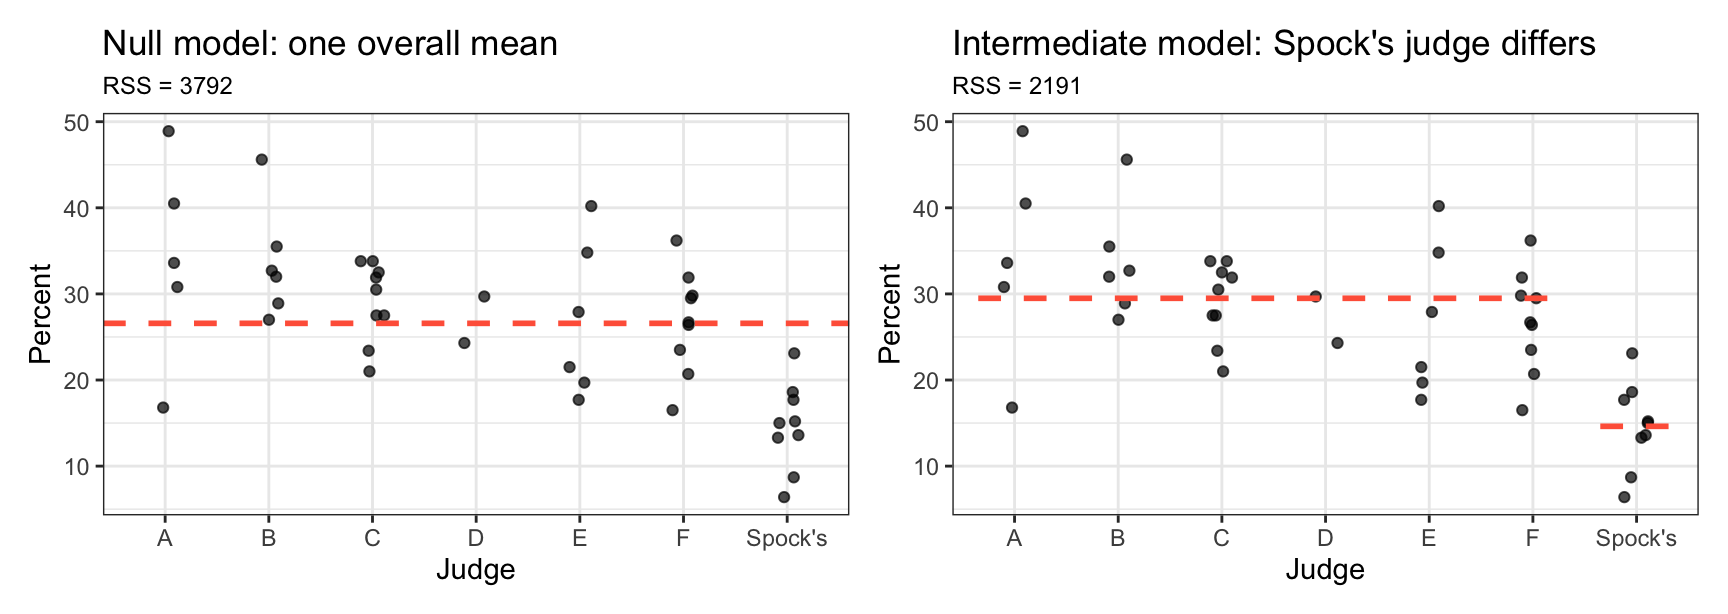
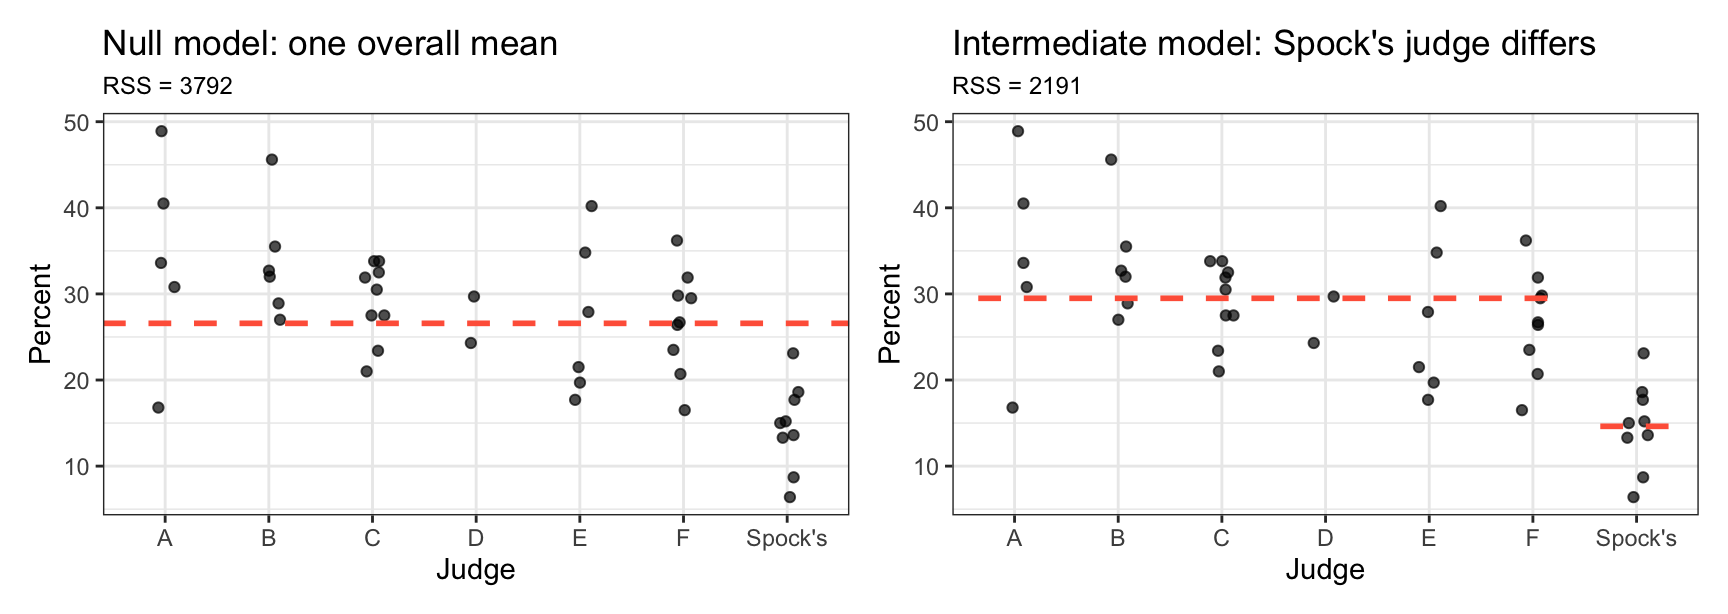
update ch 5

diff --git a/docs/07_ch5/07_ch5.html b/docs/07_ch5/07_ch5.html
@@ -339,7 +339,11 @@ window.Quarto = {
 <p>The response is <strong>lifetime in months</strong>. We are interested in:</p>
 <ol type="1">
 <li>Are <em>any</em> of the diets different from each other in terms of longevity?</li>
-<li>Which specific diets differ, and by how much?</li>
+<li>Do controls (N/N85) live longer than those on nonpurified diets (NP)?</li>
+<li>Does restricting diets from 85 kcal/wk (N/N85) to 50 kcal/wk (N/R50) increase lifetime?</li>
+<li>Does Further restriction from 50 kcal/wk (N/R50) to 40 kcal/wk (N/R40) result in even more increase lifetime?</li>
+<li>Does lowering protein (N/R50 lopro) reduce lifetime compare to those already on a restricted diet (N/R50)?</li>
+<li>Does restriction both before and after weaning (R/R50) increase lifetime relative to just after weaning (N/R50)?</li>
 </ol>
 <ul>
 <li><p>Pairwise comparisons of interest:</p>
@@ -892,7 +896,10 @@ window.Quarto = {
 <p>The response is <code>Percent</code> — the percentage of women on each venire. We are interested in:</p>
 <ol type="1">
 <li>Is Spock’s judge’s mean percent-women lower than the other judges?</li>
-<li>Are the other judges’ means all the same?</li>
+<li>Are the other judges’ means all the same?
+<ul>
+<li>Important to add context that Spock’s judge might be illegally removing women from the venire.</li>
+</ul></li>
 </ol>
 <div class="cell" data-layout-align="center">
 <div class="code-copy-outer-scaffold"><div class="sourceCode cell-code" id="cb5"><pre class="sourceCode r code-with-copy"><code class="sourceCode r"><span id="cb5-1"><a href="#cb5-1" aria-hidden="true" tabindex="-1"></a><span class="fu">ggplot</span>(case0502, <span class="fu">aes</span>(<span class="at">x =</span> Judge, <span class="at">y =</span> Percent)) <span class="sc">+</span></span>
@@ -902,21 +909,6 @@ window.Quarto = {
 <div class="quarto-figure quarto-figure-center">
 <figure class="figure">
 <p><img src="07_ch5_files/figure-html/spock-eda-1.png" class="img-fluid quarto-figure quarto-figure-center figure-img" width="672"></p>
-</figure>
-</div>
-</div>
-</div>
-<div class="cell" data-layout-align="center">
-<div class="code-copy-outer-scaffold"><div class="sourceCode cell-code" id="cb6"><pre class="sourceCode r code-with-copy"><code class="sourceCode r"><span id="cb6-1"><a href="#cb6-1" aria-hidden="true" tabindex="-1"></a><span class="fu">ggplot</span>(case0502, <span class="fu">aes</span>(<span class="at">x =</span> Judge, <span class="at">y =</span> Percent)) <span class="sc">+</span></span>
-<span id="cb6-2"><a href="#cb6-2" aria-hidden="true" tabindex="-1"></a>  <span class="fu">geom_jitter</span>(<span class="at">width =</span> <span class="fl">0.15</span>, <span class="at">height =</span> <span class="dv">0</span>) <span class="sc">+</span></span>
-<span id="cb6-3"><a href="#cb6-3" aria-hidden="true" tabindex="-1"></a>  <span class="fu">stat_summary</span>(<span class="at">fun =</span> mean, <span class="at">geom =</span> <span class="st">"crossbar"</span>,</span>
-<span id="cb6-4"><a href="#cb6-4" aria-hidden="true" tabindex="-1"></a>               <span class="at">color =</span> <span class="st">"tomato"</span>, <span class="at">linewidth =</span> <span class="fl">0.5</span>, <span class="at">width =</span> <span class="fl">0.55</span>) <span class="sc">+</span></span>
-<span id="cb6-5"><a href="#cb6-5" aria-hidden="true" tabindex="-1"></a>  <span class="fu">labs</span>(<span class="at">y =</span> <span class="st">"Percent women on venire"</span>,</span>
-<span id="cb6-6"><a href="#cb6-6" aria-hidden="true" tabindex="-1"></a>       <span class="at">caption =</span> <span class="st">"Red bars = group sample means"</span>)</span></code></pre></div><button title="Copy to Clipboard" class="code-copy-button"><i class="bi"></i></button></div>
-<div class="cell-output-display">
-<div class="quarto-figure quarto-figure-center">
-<figure class="figure">
-<p><img src="07_ch5_files/figure-html/spock-dotplot-1.png" class="img-fluid quarto-figure quarto-figure-center figure-img" width="672"></p>
 </figure>
 </div>
 </div>
@@ -1226,21 +1218,21 @@ n = \sum_{i=1}^{I}n_i
 <h2 class="anchored" data-anchor-id="p-value-for-the-spock-omnibus-test"><span class="math inline">\(p\)</span>-Value for the Spock Omnibus Test</h2>
 <p>The Spock data has <span class="math inline">\(I = 7\)</span> judges and <span class="math inline">\(n = 46\)</span> venires, so <span class="math inline">\(df_{extra} = 6\)</span> and <span class="math inline">\(df_{full} = 39\)</span>.</p>
 <div class="cell" data-layout-align="center">
-<div class="code-copy-outer-scaffold"><div class="sourceCode cell-code" id="cb7"><pre class="sourceCode r code-with-copy"><code class="sourceCode r"><span id="cb7-1"><a href="#cb7-1" aria-hidden="true" tabindex="-1"></a>n     <span class="ot">&lt;-</span> <span class="fu">nrow</span>(case0502)</span>
-<span id="cb7-2"><a href="#cb7-2" aria-hidden="true" tabindex="-1"></a>I     <span class="ot">&lt;-</span> <span class="fu">n_distinct</span>(case0502<span class="sc">$</span>Judge)</span>
-<span id="cb7-3"><a href="#cb7-3" aria-hidden="true" tabindex="-1"></a>df_extra <span class="ot">&lt;-</span> I <span class="sc">-</span> <span class="dv">1</span>          <span class="co"># 6</span></span>
-<span id="cb7-4"><a href="#cb7-4" aria-hidden="true" tabindex="-1"></a>df_full  <span class="ot">&lt;-</span> n <span class="sc">-</span> I          <span class="co"># 39</span></span>
-<span id="cb7-5"><a href="#cb7-5" aria-hidden="true" tabindex="-1"></a>ess      <span class="ot">&lt;-</span> rss_null <span class="sc">-</span> rss_full</span>
-<span id="cb7-6"><a href="#cb7-6" aria-hidden="true" tabindex="-1"></a>sp2      <span class="ot">&lt;-</span> rss_full <span class="sc">/</span> df_full</span>
-<span id="cb7-7"><a href="#cb7-7" aria-hidden="true" tabindex="-1"></a>fstat    <span class="ot">&lt;-</span> (ess <span class="sc">/</span> df_extra) <span class="sc">/</span> sp2</span>
-<span id="cb7-8"><a href="#cb7-8" aria-hidden="true" tabindex="-1"></a><span class="fu">c</span>(<span class="at">ESS =</span> ess, <span class="at">RSS_full =</span> rss_full, <span class="at">sp2 =</span> sp2, <span class="at">F =</span> fstat)</span></code></pre></div><button title="Copy to Clipboard" class="code-copy-button"><i class="bi"></i></button></div>
+<div class="code-copy-outer-scaffold"><div class="sourceCode cell-code" id="cb6"><pre class="sourceCode r code-with-copy"><code class="sourceCode r"><span id="cb6-1"><a href="#cb6-1" aria-hidden="true" tabindex="-1"></a>n     <span class="ot">&lt;-</span> <span class="fu">nrow</span>(case0502)</span>
+<span id="cb6-2"><a href="#cb6-2" aria-hidden="true" tabindex="-1"></a>I     <span class="ot">&lt;-</span> <span class="fu">n_distinct</span>(case0502<span class="sc">$</span>Judge)</span>
+<span id="cb6-3"><a href="#cb6-3" aria-hidden="true" tabindex="-1"></a>df_extra <span class="ot">&lt;-</span> I <span class="sc">-</span> <span class="dv">1</span>          <span class="co"># 6</span></span>
+<span id="cb6-4"><a href="#cb6-4" aria-hidden="true" tabindex="-1"></a>df_full  <span class="ot">&lt;-</span> n <span class="sc">-</span> I          <span class="co"># 39</span></span>
+<span id="cb6-5"><a href="#cb6-5" aria-hidden="true" tabindex="-1"></a>ess      <span class="ot">&lt;-</span> rss_null <span class="sc">-</span> rss_full</span>
+<span id="cb6-6"><a href="#cb6-6" aria-hidden="true" tabindex="-1"></a>sp2      <span class="ot">&lt;-</span> rss_full <span class="sc">/</span> df_full</span>
+<span id="cb6-7"><a href="#cb6-7" aria-hidden="true" tabindex="-1"></a>fstat    <span class="ot">&lt;-</span> (ess <span class="sc">/</span> df_extra) <span class="sc">/</span> sp2</span>
+<span id="cb6-8"><a href="#cb6-8" aria-hidden="true" tabindex="-1"></a><span class="fu">c</span>(<span class="at">ESS =</span> ess, <span class="at">RSS_full =</span> rss_full, <span class="at">sp2 =</span> sp2, <span class="at">F =</span> fstat)</span></code></pre></div><button title="Copy to Clipboard" class="code-copy-button"><i class="bi"></i></button></div>
 <div class="cell-output cell-output-stdout">
 <pre><code>        ESS    RSS_full         sp2           F 
 1927.080865 1864.445222   47.806288    6.718366 </code></pre>
 </div>
 </div>
 <div class="cell" data-layout-align="center">
-<div class="code-copy-outer-scaffold"><div class="sourceCode cell-code" id="cb9"><pre class="sourceCode r code-with-copy"><code class="sourceCode r"><span id="cb9-1"><a href="#cb9-1" aria-hidden="true" tabindex="-1"></a><span class="fu">pf</span>(fstat, <span class="at">df1 =</span> df_extra, <span class="at">df2 =</span> df_full, <span class="at">lower.tail =</span> <span class="cn">FALSE</span>)</span></code></pre></div><button title="Copy to Clipboard" class="code-copy-button"><i class="bi"></i></button></div>
+<div class="code-copy-outer-scaffold"><div class="sourceCode cell-code" id="cb8"><pre class="sourceCode r code-with-copy"><code class="sourceCode r"><span id="cb8-1"><a href="#cb8-1" aria-hidden="true" tabindex="-1"></a><span class="fu">pf</span>(fstat, <span class="at">df1 =</span> df_extra, <span class="at">df2 =</span> df_full, <span class="at">lower.tail =</span> <span class="cn">FALSE</span>)</span></code></pre></div><button title="Copy to Clipboard" class="code-copy-button"><i class="bi"></i></button></div>
 <div class="cell-output cell-output-stdout">
 <pre><code>[1] 6.095823e-05</code></pre>
 </div>
@@ -1470,7 +1462,7 @@ n = \sum_{i=1}^{I}n_i
 <h2 class="anchored" data-anchor-id="checking-the-grouping-variable">Checking the Grouping Variable</h2>
 <p>Before fitting, confirm the grouping variable is a <code>factor</code> or <code>character</code>:</p>
 <div class="cell" data-layout-align="center">
-<div class="code-copy-outer-scaffold"><div class="sourceCode cell-code" id="cb11"><pre class="sourceCode r code-with-copy"><code class="sourceCode r"><span id="cb11-1"><a href="#cb11-1" aria-hidden="true" tabindex="-1"></a><span class="fu">class</span>(case0502<span class="sc">$</span>Judge)</span></code></pre></div><button title="Copy to Clipboard" class="code-copy-button"><i class="bi"></i></button></div>
+<div class="code-copy-outer-scaffold"><div class="sourceCode cell-code" id="cb10"><pre class="sourceCode r code-with-copy"><code class="sourceCode r"><span id="cb10-1"><a href="#cb10-1" aria-hidden="true" tabindex="-1"></a><span class="fu">class</span>(case0502<span class="sc">$</span>Judge)</span></code></pre></div><button title="Copy to Clipboard" class="code-copy-button"><i class="bi"></i></button></div>
 <div class="cell-output cell-output-stdout">
 <pre><code>[1] "factor"</code></pre>
 </div>
@@ -1480,8 +1472,8 @@ n = \sum_{i=1}^{I}n_i
 <section id="omnibus-f-test-with-aov-and-tidy" class="level2">
 <h2 class="anchored" data-anchor-id="omnibus-f-test-with-aov-and-tidy">Omnibus <span class="math inline">\(F\)</span>-Test with <code>aov()</code> and <code>tidy()</code></h2>
 <div class="cell" data-layout-align="center">
-<div class="code-copy-outer-scaffold"><div class="sourceCode cell-code" id="cb13"><pre class="sourceCode r code-with-copy"><code class="sourceCode r"><span id="cb13-1"><a href="#cb13-1" aria-hidden="true" tabindex="-1"></a>aout_full <span class="ot">&lt;-</span> <span class="fu">aov</span>(Percent <span class="sc">~</span> Judge, <span class="at">data =</span> case0502)</span>
-<span id="cb13-2"><a href="#cb13-2" aria-hidden="true" tabindex="-1"></a><span class="fu">tidy</span>(aout_full)</span></code></pre></div><button title="Copy to Clipboard" class="code-copy-button"><i class="bi"></i></button></div>
+<div class="code-copy-outer-scaffold"><div class="sourceCode cell-code" id="cb12"><pre class="sourceCode r code-with-copy"><code class="sourceCode r"><span id="cb12-1"><a href="#cb12-1" aria-hidden="true" tabindex="-1"></a>aout_full <span class="ot">&lt;-</span> <span class="fu">aov</span>(Percent <span class="sc">~</span> Judge, <span class="at">data =</span> case0502)</span>
+<span id="cb12-2"><a href="#cb12-2" aria-hidden="true" tabindex="-1"></a><span class="fu">tidy</span>(aout_full)</span></code></pre></div><button title="Copy to Clipboard" class="code-copy-button"><i class="bi"></i></button></div>
 <div class="cell-output cell-output-stdout">
 <pre><code># A tibble: 2 × 6
   term         df sumsq meansq statistic    p.value
@@ -1533,10 +1525,10 @@ n = \sum_{i=1}^{I}n_i
 <section id="pairwise-comparisons" class="level2">
 <h2 class="anchored" data-anchor-id="pairwise-comparisons">Pairwise Comparisons</h2>
 <div class="cell" data-layout-align="center">
-<div class="code-copy-outer-scaffold"><div class="sourceCode cell-code" id="cb15"><pre class="sourceCode r code-with-copy"><code class="sourceCode r"><span id="cb15-1"><a href="#cb15-1" aria-hidden="true" tabindex="-1"></a>ptout <span class="ot">&lt;-</span> <span class="fu">pairwise.t.test</span>(<span class="at">x =</span> case0502<span class="sc">$</span>Percent,</span>
-<span id="cb15-2"><a href="#cb15-2" aria-hidden="true" tabindex="-1"></a>                         <span class="at">g =</span> case0502<span class="sc">$</span>Judge,</span>
-<span id="cb15-3"><a href="#cb15-3" aria-hidden="true" tabindex="-1"></a>                         <span class="at">p.adjust.method =</span> <span class="st">"none"</span>)</span>
-<span id="cb15-4"><a href="#cb15-4" aria-hidden="true" tabindex="-1"></a>ptout</span></code></pre></div><button title="Copy to Clipboard" class="code-copy-button"><i class="bi"></i></button></div>
+<div class="code-copy-outer-scaffold"><div class="sourceCode cell-code" id="cb14"><pre class="sourceCode r code-with-copy"><code class="sourceCode r"><span id="cb14-1"><a href="#cb14-1" aria-hidden="true" tabindex="-1"></a>ptout <span class="ot">&lt;-</span> <span class="fu">pairwise.t.test</span>(<span class="at">x =</span> case0502<span class="sc">$</span>Percent,</span>
+<span id="cb14-2"><a href="#cb14-2" aria-hidden="true" tabindex="-1"></a>                         <span class="at">g =</span> case0502<span class="sc">$</span>Judge,</span>
+<span id="cb14-3"><a href="#cb14-3" aria-hidden="true" tabindex="-1"></a>                         <span class="at">p.adjust.method =</span> <span class="st">"none"</span>)</span>
+<span id="cb14-4"><a href="#cb14-4" aria-hidden="true" tabindex="-1"></a>ptout</span></code></pre></div><button title="Copy to Clipboard" class="code-copy-button"><i class="bi"></i></button></div>
 <div class="cell-output cell-output-stdout">
 <pre><code>
     Pairwise comparisons using t tests with pooled SD 
@@ -1560,14 +1552,14 @@ P value adjustment method: none </code></pre>
 <h2 class="anchored" data-anchor-id="nested-model-comparisons-with-anova">Nested Model Comparisons with <code>anova()</code></h2>
 <p>To test the intermediate hypothesis (Spock’s differs; others pooled):</p>
 <div class="cell" data-layout-align="center">
-<div class="code-copy-outer-scaffold"><div class="sourceCode cell-code" id="cb17"><pre class="sourceCode r code-with-copy"><code class="sourceCode r"><span id="cb17-1"><a href="#cb17-1" aria-hidden="true" tabindex="-1"></a>case0502 <span class="ot">&lt;-</span> case0502 <span class="sc">|&gt;</span></span>
-<span id="cb17-2"><a href="#cb17-2" aria-hidden="true" tabindex="-1"></a>  <span class="fu">mutate</span>(<span class="at">isSpock =</span> Judge <span class="sc">==</span> <span class="st">"Spock's"</span>)</span>
-<span id="cb17-3"><a href="#cb17-3" aria-hidden="true" tabindex="-1"></a></span>
-<span id="cb17-4"><a href="#cb17-4" aria-hidden="true" tabindex="-1"></a>aout_intermediate <span class="ot">&lt;-</span> <span class="fu">aov</span>(Percent <span class="sc">~</span> isSpock, <span class="at">data =</span> case0502)</span>
-<span id="cb17-5"><a href="#cb17-5" aria-hidden="true" tabindex="-1"></a>aout_null         <span class="ot">&lt;-</span> <span class="fu">aov</span>(Percent <span class="sc">~</span> <span class="dv">1</span>,       <span class="at">data =</span> case0502)</span></code></pre></div><button title="Copy to Clipboard" class="code-copy-button"><i class="bi"></i></button></div>
+<div class="code-copy-outer-scaffold"><div class="sourceCode cell-code" id="cb16"><pre class="sourceCode r code-with-copy"><code class="sourceCode r"><span id="cb16-1"><a href="#cb16-1" aria-hidden="true" tabindex="-1"></a>case0502 <span class="ot">&lt;-</span> case0502 <span class="sc">|&gt;</span></span>
+<span id="cb16-2"><a href="#cb16-2" aria-hidden="true" tabindex="-1"></a>  <span class="fu">mutate</span>(<span class="at">isSpock =</span> Judge <span class="sc">==</span> <span class="st">"Spock's"</span>)</span>
+<span id="cb16-3"><a href="#cb16-3" aria-hidden="true" tabindex="-1"></a></span>
+<span id="cb16-4"><a href="#cb16-4" aria-hidden="true" tabindex="-1"></a>aout_intermediate <span class="ot">&lt;-</span> <span class="fu">aov</span>(Percent <span class="sc">~</span> isSpock, <span class="at">data =</span> case0502)</span>
+<span id="cb16-5"><a href="#cb16-5" aria-hidden="true" tabindex="-1"></a>aout_null         <span class="ot">&lt;-</span> <span class="fu">aov</span>(Percent <span class="sc">~</span> <span class="dv">1</span>,       <span class="at">data =</span> case0502)</span></code></pre></div><button title="Copy to Clipboard" class="code-copy-button"><i class="bi"></i></button></div>
 </div>
 <div class="cell" data-layout-align="center">
-<div class="code-copy-outer-scaffold"><div class="sourceCode cell-code" id="cb18"><pre class="sourceCode r code-with-copy"><code class="sourceCode r"><span id="cb18-1"><a href="#cb18-1" aria-hidden="true" tabindex="-1"></a><span class="fu">anova</span>(aout_intermediate, aout_full)</span></code></pre></div><button title="Copy to Clipboard" class="code-copy-button"><i class="bi"></i></button></div>
+<div class="code-copy-outer-scaffold"><div class="sourceCode cell-code" id="cb17"><pre class="sourceCode r code-with-copy"><code class="sourceCode r"><span id="cb17-1"><a href="#cb17-1" aria-hidden="true" tabindex="-1"></a><span class="fu">anova</span>(aout_intermediate, aout_full)</span></code></pre></div><button title="Copy to Clipboard" class="code-copy-button"><i class="bi"></i></button></div>
 <div class="cell-output cell-output-stdout">
 <pre><code>Analysis of Variance Table
 
@@ -1626,7 +1618,7 @@ Model 2: Percent ~ Judge
 <h2 class="anchored" data-anchor-id="full-sequential-anova-table">Full Sequential ANOVA Table</h2>
 <p>Compare all three models at once:</p>
 <div class="cell" data-layout-align="center">
-<div class="code-copy-outer-scaffold"><div class="sourceCode cell-code" id="cb20"><pre class="sourceCode r code-with-copy"><code class="sourceCode r"><span id="cb20-1"><a href="#cb20-1" aria-hidden="true" tabindex="-1"></a><span class="fu">anova</span>(aout_null, aout_intermediate, aout_full)</span></code></pre></div><button title="Copy to Clipboard" class="code-copy-button"><i class="bi"></i></button></div>
+<div class="code-copy-outer-scaffold"><div class="sourceCode cell-code" id="cb19"><pre class="sourceCode r code-with-copy"><code class="sourceCode r"><span id="cb19-1"><a href="#cb19-1" aria-hidden="true" tabindex="-1"></a><span class="fu">anova</span>(aout_null, aout_intermediate, aout_full)</span></code></pre></div><button title="Copy to Clipboard" class="code-copy-button"><i class="bi"></i></button></div>
 <div class="cell-output cell-output-stdout">
 <pre><code>Analysis of Variance Table
 
@@ -1661,8 +1653,8 @@ Signif. codes:  0 '***' 0.001 '**' 0.01 '*' 0.05 '.' 0.1 ' ' 1</code></pre>
 <h2 class="anchored" data-anchor-id="residual-plots-in-r">Residual Plots in R</h2>
 <p>The quickest way is <code>plot()</code> applied to an <code>aov()</code> object:</p>
 <div class="cell" data-layout-align="center">
-<div class="code-copy-outer-scaffold"><div class="sourceCode cell-code" id="cb22"><pre class="sourceCode r code-with-copy"><code class="sourceCode r"><span id="cb22-1"><a href="#cb22-1" aria-hidden="true" tabindex="-1"></a><span class="fu">par</span>(<span class="at">mfrow =</span> <span class="fu">c</span>(<span class="dv">2</span>, <span class="dv">2</span>))</span>
-<span id="cb22-2"><a href="#cb22-2" aria-hidden="true" tabindex="-1"></a><span class="fu">plot</span>(aout_full)</span></code></pre></div><button title="Copy to Clipboard" class="code-copy-button"><i class="bi"></i></button></div>
+<div class="code-copy-outer-scaffold"><div class="sourceCode cell-code" id="cb21"><pre class="sourceCode r code-with-copy"><code class="sourceCode r"><span id="cb21-1"><a href="#cb21-1" aria-hidden="true" tabindex="-1"></a><span class="fu">par</span>(<span class="at">mfrow =</span> <span class="fu">c</span>(<span class="dv">2</span>, <span class="dv">2</span>))</span>
+<span id="cb21-2"><a href="#cb21-2" aria-hidden="true" tabindex="-1"></a><span class="fu">plot</span>(aout_full)</span></code></pre></div><button title="Copy to Clipboard" class="code-copy-button"><i class="bi"></i></button></div>
 <div class="cell-output-display">
 <div class="quarto-figure quarto-figure-center">
 <figure class="figure">
@@ -1670,7 +1662,7 @@ Signif. codes:  0 '***' 0.001 '**' 0.01 '*' 0.05 '.' 0.1 ' ' 1</code></pre>
 </figure>
 </div>
 </div>
-<div class="code-copy-outer-scaffold"><div class="sourceCode cell-code" id="cb23"><pre class="sourceCode r code-with-copy"><code class="sourceCode r"><span id="cb23-1"><a href="#cb23-1" aria-hidden="true" tabindex="-1"></a><span class="fu">par</span>(<span class="at">mfrow =</span> <span class="fu">c</span>(<span class="dv">1</span>, <span class="dv">1</span>))</span></code></pre></div><button title="Copy to Clipboard" class="code-copy-button"><i class="bi"></i></button></div>
+<div class="code-copy-outer-scaffold"><div class="sourceCode cell-code" id="cb22"><pre class="sourceCode r code-with-copy"><code class="sourceCode r"><span id="cb22-1"><a href="#cb22-1" aria-hidden="true" tabindex="-1"></a><span class="fu">par</span>(<span class="at">mfrow =</span> <span class="fu">c</span>(<span class="dv">1</span>, <span class="dv">1</span>))</span></code></pre></div><button title="Copy to Clipboard" class="code-copy-button"><i class="bi"></i></button></div>
 </div>
 <p>The two most important panels:</p>
 <ul>
@@ -1681,21 +1673,21 @@ Signif. codes:  0 '***' 0.001 '**' 0.01 '*' 0.05 '.' 0.1 ' ' 1</code></pre>
 <section id="manual-ggplot2-residual-plots" class="level2">
 <h2 class="anchored" data-anchor-id="manual-ggplot2-residual-plots">Manual <code>ggplot2</code> Residual Plots</h2>
 <div class="cell" data-layout-align="center">
-<div class="code-copy-outer-scaffold"><div class="sourceCode cell-code" id="cb24"><pre class="sourceCode r code-with-copy"><code class="sourceCode r"><span id="cb24-1"><a href="#cb24-1" aria-hidden="true" tabindex="-1"></a>aug_full <span class="ot">&lt;-</span> <span class="fu">augment</span>(aout_full)</span>
-<span id="cb24-2"><a href="#cb24-2" aria-hidden="true" tabindex="-1"></a></span>
-<span id="cb24-3"><a href="#cb24-3" aria-hidden="true" tabindex="-1"></a>p_rv_fit <span class="ot">&lt;-</span> <span class="fu">ggplot</span>(aug_full, <span class="fu">aes</span>(<span class="at">x =</span> .fitted, <span class="at">y =</span> .resid)) <span class="sc">+</span></span>
-<span id="cb24-4"><a href="#cb24-4" aria-hidden="true" tabindex="-1"></a>  <span class="fu">geom_point</span>() <span class="sc">+</span></span>
-<span id="cb24-5"><a href="#cb24-5" aria-hidden="true" tabindex="-1"></a>  <span class="fu">geom_hline</span>(<span class="at">yintercept =</span> <span class="dv">0</span>, <span class="at">linetype =</span> <span class="st">"dashed"</span>) <span class="sc">+</span></span>
-<span id="cb24-6"><a href="#cb24-6" aria-hidden="true" tabindex="-1"></a>  <span class="fu">labs</span>(<span class="at">x =</span> <span class="st">"Fitted values (group means)"</span>,</span>
-<span id="cb24-7"><a href="#cb24-7" aria-hidden="true" tabindex="-1"></a>       <span class="at">y =</span> <span class="st">"Residuals"</span>,</span>
-<span id="cb24-8"><a href="#cb24-8" aria-hidden="true" tabindex="-1"></a>       <span class="at">title =</span> <span class="st">"Residuals vs. fitted"</span>)</span>
-<span id="cb24-9"><a href="#cb24-9" aria-hidden="true" tabindex="-1"></a></span>
-<span id="cb24-10"><a href="#cb24-10" aria-hidden="true" tabindex="-1"></a>p_rv_grp <span class="ot">&lt;-</span> <span class="fu">ggplot</span>(aug_full, <span class="fu">aes</span>(<span class="at">x =</span> Judge, <span class="at">y =</span> .resid)) <span class="sc">+</span></span>
-<span id="cb24-11"><a href="#cb24-11" aria-hidden="true" tabindex="-1"></a>  <span class="fu">geom_boxplot</span>() <span class="sc">+</span></span>
-<span id="cb24-12"><a href="#cb24-12" aria-hidden="true" tabindex="-1"></a>  <span class="fu">geom_hline</span>(<span class="at">yintercept =</span> <span class="dv">0</span>, <span class="at">linetype =</span> <span class="st">"dashed"</span>) <span class="sc">+</span></span>
-<span id="cb24-13"><a href="#cb24-13" aria-hidden="true" tabindex="-1"></a>  <span class="fu">labs</span>(<span class="at">y =</span> <span class="st">"Residuals"</span>, <span class="at">title =</span> <span class="st">"Residuals by group"</span>)</span>
-<span id="cb24-14"><a href="#cb24-14" aria-hidden="true" tabindex="-1"></a></span>
-<span id="cb24-15"><a href="#cb24-15" aria-hidden="true" tabindex="-1"></a>p_rv_fit <span class="sc">+</span> p_rv_grp</span></code></pre></div><button title="Copy to Clipboard" class="code-copy-button"><i class="bi"></i></button></div>
+<div class="code-copy-outer-scaffold"><div class="sourceCode cell-code" id="cb23"><pre class="sourceCode r code-with-copy"><code class="sourceCode r"><span id="cb23-1"><a href="#cb23-1" aria-hidden="true" tabindex="-1"></a>aug_full <span class="ot">&lt;-</span> <span class="fu">augment</span>(aout_full)</span>
+<span id="cb23-2"><a href="#cb23-2" aria-hidden="true" tabindex="-1"></a></span>
+<span id="cb23-3"><a href="#cb23-3" aria-hidden="true" tabindex="-1"></a>p_rv_fit <span class="ot">&lt;-</span> <span class="fu">ggplot</span>(aug_full, <span class="fu">aes</span>(<span class="at">x =</span> .fitted, <span class="at">y =</span> .resid)) <span class="sc">+</span></span>
+<span id="cb23-4"><a href="#cb23-4" aria-hidden="true" tabindex="-1"></a>  <span class="fu">geom_point</span>() <span class="sc">+</span></span>
+<span id="cb23-5"><a href="#cb23-5" aria-hidden="true" tabindex="-1"></a>  <span class="fu">geom_hline</span>(<span class="at">yintercept =</span> <span class="dv">0</span>, <span class="at">linetype =</span> <span class="st">"dashed"</span>) <span class="sc">+</span></span>
+<span id="cb23-6"><a href="#cb23-6" aria-hidden="true" tabindex="-1"></a>  <span class="fu">labs</span>(<span class="at">x =</span> <span class="st">"Fitted values (group means)"</span>,</span>
+<span id="cb23-7"><a href="#cb23-7" aria-hidden="true" tabindex="-1"></a>       <span class="at">y =</span> <span class="st">"Residuals"</span>,</span>
+<span id="cb23-8"><a href="#cb23-8" aria-hidden="true" tabindex="-1"></a>       <span class="at">title =</span> <span class="st">"Residuals vs. fitted"</span>)</span>
+<span id="cb23-9"><a href="#cb23-9" aria-hidden="true" tabindex="-1"></a></span>
+<span id="cb23-10"><a href="#cb23-10" aria-hidden="true" tabindex="-1"></a>p_rv_grp <span class="ot">&lt;-</span> <span class="fu">ggplot</span>(aug_full, <span class="fu">aes</span>(<span class="at">x =</span> Judge, <span class="at">y =</span> .resid)) <span class="sc">+</span></span>
+<span id="cb23-11"><a href="#cb23-11" aria-hidden="true" tabindex="-1"></a>  <span class="fu">geom_boxplot</span>() <span class="sc">+</span></span>
+<span id="cb23-12"><a href="#cb23-12" aria-hidden="true" tabindex="-1"></a>  <span class="fu">geom_hline</span>(<span class="at">yintercept =</span> <span class="dv">0</span>, <span class="at">linetype =</span> <span class="st">"dashed"</span>) <span class="sc">+</span></span>
+<span id="cb23-13"><a href="#cb23-13" aria-hidden="true" tabindex="-1"></a>  <span class="fu">labs</span>(<span class="at">y =</span> <span class="st">"Residuals"</span>, <span class="at">title =</span> <span class="st">"Residuals by group"</span>)</span>
+<span id="cb23-14"><a href="#cb23-14" aria-hidden="true" tabindex="-1"></a></span>
+<span id="cb23-15"><a href="#cb23-15" aria-hidden="true" tabindex="-1"></a>p_rv_fit <span class="sc">+</span> p_rv_grp</span></code></pre></div><button title="Copy to Clipboard" class="code-copy-button"><i class="bi"></i></button></div>
 <div class="cell-output-display">
 <div class="quarto-figure quarto-figure-center">
 <figure class="figure">
@@ -1705,10 +1697,10 @@ Signif. codes:  0 '***' 0.001 '**' 0.01 '*' 0.05 '.' 0.1 ' ' 1</code></pre>
 </div>
 </div>
 <div class="cell" data-layout-align="center">
-<div class="code-copy-outer-scaffold"><div class="sourceCode cell-code" id="cb25"><pre class="sourceCode r code-with-copy"><code class="sourceCode r"><span id="cb25-1"><a href="#cb25-1" aria-hidden="true" tabindex="-1"></a><span class="fu">ggplot</span>(aug_full, <span class="fu">aes</span>(<span class="at">sample =</span> .resid)) <span class="sc">+</span></span>
-<span id="cb25-2"><a href="#cb25-2" aria-hidden="true" tabindex="-1"></a>  <span class="fu">geom_qq</span>() <span class="sc">+</span></span>
-<span id="cb25-3"><a href="#cb25-3" aria-hidden="true" tabindex="-1"></a>  <span class="fu">geom_qq_line</span>() <span class="sc">+</span></span>
-<span id="cb25-4"><a href="#cb25-4" aria-hidden="true" tabindex="-1"></a>  <span class="fu">labs</span>(<span class="at">title =</span> <span class="st">"Normal Q-Q plot of residuals"</span>)</span></code></pre></div><button title="Copy to Clipboard" class="code-copy-button"><i class="bi"></i></button></div>
+<div class="code-copy-outer-scaffold"><div class="sourceCode cell-code" id="cb24"><pre class="sourceCode r code-with-copy"><code class="sourceCode r"><span id="cb24-1"><a href="#cb24-1" aria-hidden="true" tabindex="-1"></a><span class="fu">ggplot</span>(aug_full, <span class="fu">aes</span>(<span class="at">sample =</span> .resid)) <span class="sc">+</span></span>
+<span id="cb24-2"><a href="#cb24-2" aria-hidden="true" tabindex="-1"></a>  <span class="fu">geom_qq</span>() <span class="sc">+</span></span>
+<span id="cb24-3"><a href="#cb24-3" aria-hidden="true" tabindex="-1"></a>  <span class="fu">geom_qq_line</span>() <span class="sc">+</span></span>
+<span id="cb24-4"><a href="#cb24-4" aria-hidden="true" tabindex="-1"></a>  <span class="fu">labs</span>(<span class="at">title =</span> <span class="st">"Normal Q-Q plot of residuals"</span>)</span></code></pre></div><button title="Copy to Clipboard" class="code-copy-button"><i class="bi"></i></button></div>
 <div class="cell-output-display">
 <div class="quarto-figure quarto-figure-center">
 <figure class="figure">

diff --git a/docs/05_ch3/05_ch3.html b/docs/05_ch3/05_ch3.html
@@ -7,7 +7,7 @@
 <meta name="viewport" content="width=device-width, initial-scale=1.0, user-scalable=yes">
 
 <meta name="author" content="David Gerard">
-<meta name="dcterms.date" content="2026-07-01">
+<meta name="dcterms.date" content="2026-07-09">
 
 <title>Assumptions of t-Tools – Stat 302: Intermediate Statistics</title>
 <style>
@@ -233,7 +233,7 @@ window.Quarto = {
     <div>
     <div class="quarto-title-meta-heading">Published</div>
     <div class="quarto-title-meta-contents">
-      <p class="date">July 1, 2026</p>
+      <p class="date">July 9, 2026</p>
     </div>
   </div>
   